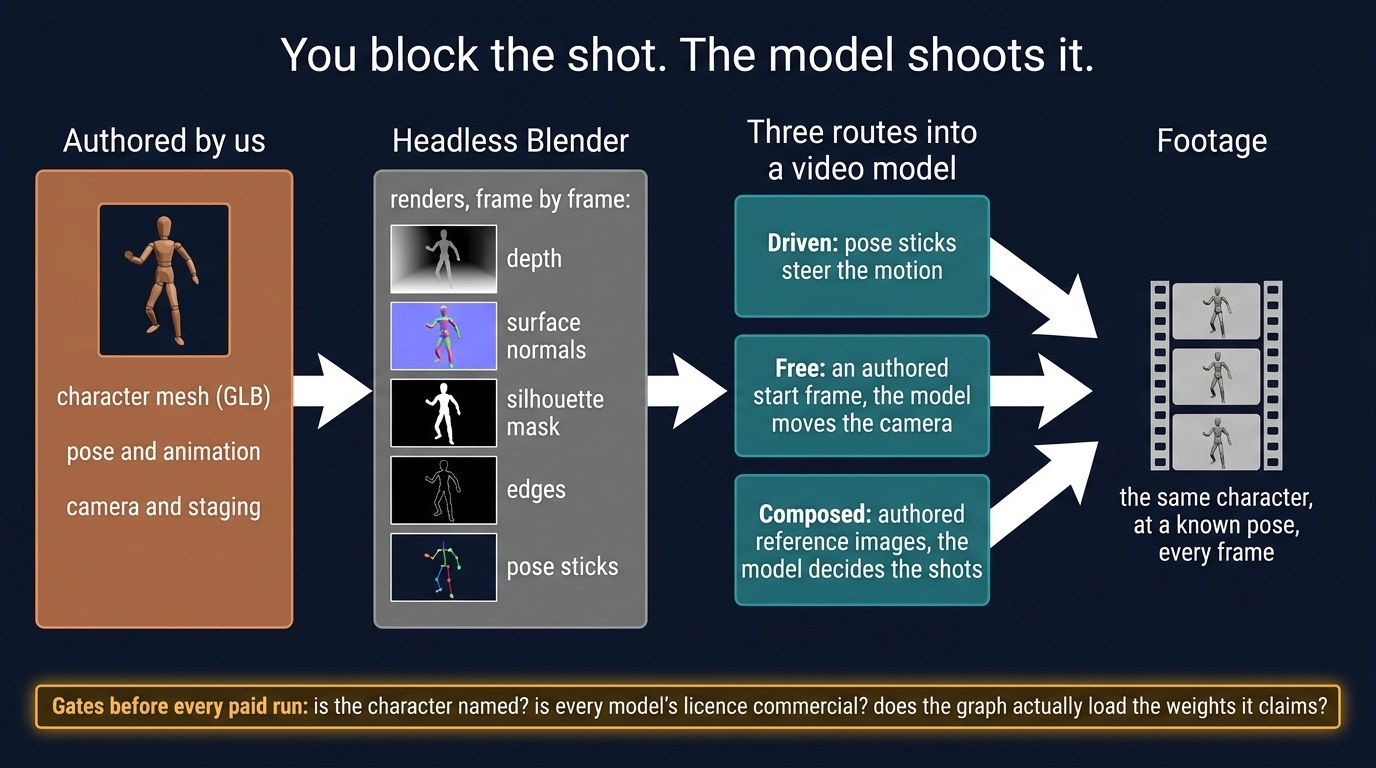
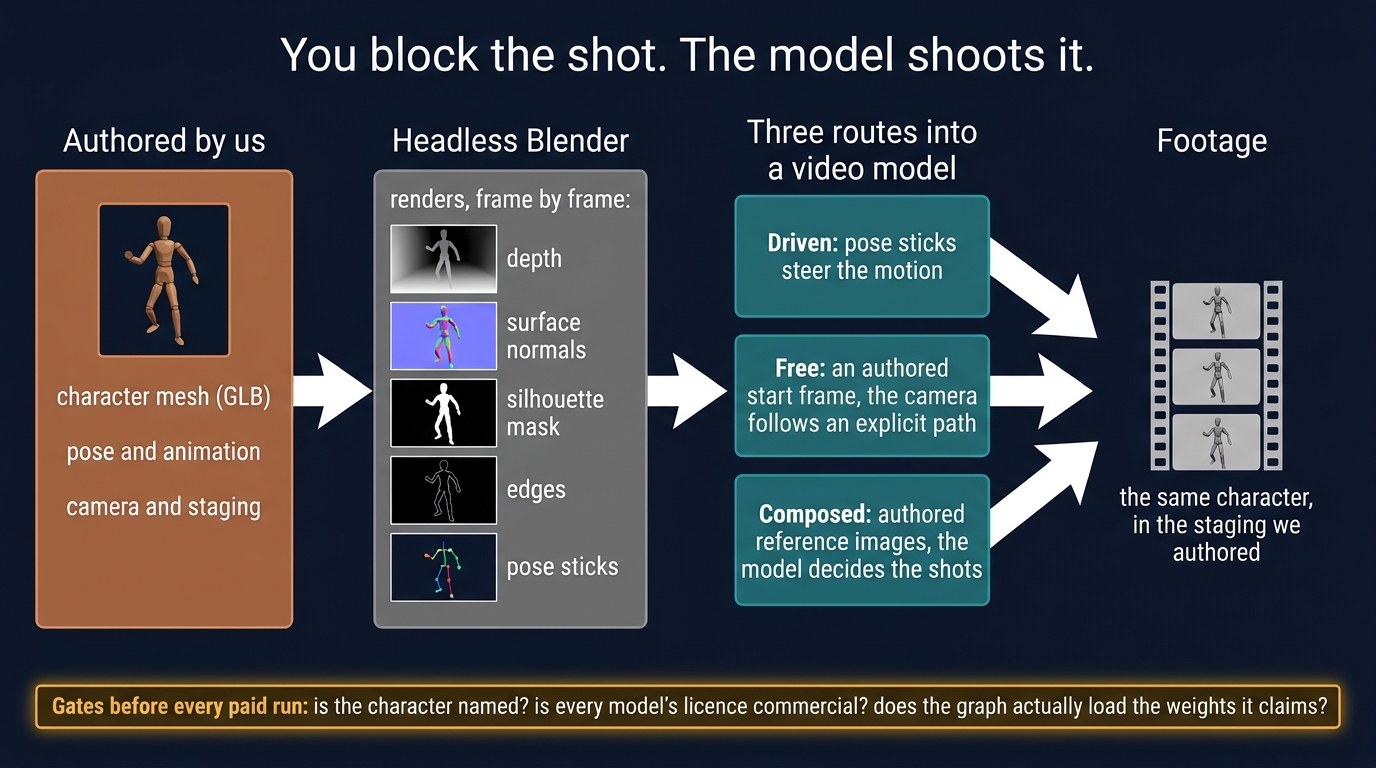
issue 43: Carbon read amends 6, 7, 10 in the diagrams (free route wording; footage caption; fix in review; TPU figures marked reported)

Changed region(s): [[0.5312, 0.5, 0.7188, 0.5625], [0.8125, 0.6562, 0.9375, 0.75]]

diff --git a/site/src/content/docs/newsletter/issue-43.md b/site/src/content/docs/newsletter/issue-43.md
@@ -305,7 +305,7 @@ hour) and closed cleanly.
 **What went wrong.** As the run handed over from training to making its final sample images, the launcher's own
 **stall guard** stopped it.
 
-![Diagram titled "The guard was watching a phase that had already ended". A timeline of one training run on a rented GPU: Setup (setup log grows), then Training: step 1 to 500 (setup log stops growing, as expected), with flags at save: step 250 and save: step 500, then Final sample images, marked with a stop sign and "stopped here", then a faded Close and fetch. Above it, a status log with two blocks reading "phase: run" and a torn third block, "half-written block: no phase". Arrows lead from the torn block to "Guard reads a missing phase as 'setup'", then to "Setup log unchanged for 14.5 min (limit 10 min) → stop", then down to the stop sign. At the bottom: "The fix: skip half-written blocks, as the memory guard already did."](/rnd/charts/issue-43-stall-guard.jpg)
+![Diagram titled "The guard was watching a phase that had already ended". A timeline of one training run on a rented GPU: Setup (setup log grows), then Training: step 1 to 500 (setup log stops growing, as expected), with flags at save: step 250 and save: step 500, then Final sample images, marked with a stop sign and "stopped here", then a faded Close and fetch. Above it, a status log with two blocks reading "phase: run" and a torn third block, "half-written block: no phase". Arrows lead from the torn block to "Guard reads a missing phase as 'setup'", then to "Setup log unchanged for 14.5 min (limit 10 min) → stop", then down to the stop sign. At the bottom: "The fix (in review): skip half-written blocks, as the memory guard already did."](/rnd/charts/issue-43-stall-guard.jpg)
 
 That guard watches the setup log during setup, and fires if the log stops growing for 10 minutes. But setup had ended
 long before: the run was training, and a training run isn't supposed to write to the setup log. The launcher reads the
@@ -332,7 +332,7 @@ what they're good for. We checked one thing ourselves, marked below; the rest is
 The short answer: a single TPU chip is a fast matrix engine that wants to be fed **many requests at once**, with shapes
 it has already compiled for. It is not a drop-in GPU.
 
-![Diagram titled "A single TPU chip wants many requests at once". Left panel, "One request at a time": a TPU chip reads the model weights from memory, with "memory: every weight read once per word", and one token comes out; caption: "Speed is set by memory bandwidth. Our RTX 5090 (1,792 GB/s) matches a v6e-1 (1,638 GB/s)." Right panel, "Many requests at once": the same chip and memory, with many request lanes going in and many token streams coming out; caption: "Each weight read now serves many answers at once. This is where a TPU chip earns its keep." An amber strip along the bottom: "First, it compiles for every input shape it sees: 1.5 to 34 minutes reported. Change the shape and it compiles again."](/rnd/charts/issue-43-tpu.jpg)
+![Diagram titled "A single TPU chip wants many requests at once". Left panel, "One request at a time": a TPU chip reads the model weights from memory, with "memory: every weight read once per word", and one token comes out; caption: "Reported: speed is set by memory bandwidth. Our RTX 5090 (1,792 GB/s) matches a v6e-1 (1,638 GB/s)." Right panel, "Many requests at once": the same chip and memory, with many request lanes going in and many token streams coming out; caption: "Each weight read now serves many answers at once. This is where a TPU chip earns its keep." An amber strip along the bottom: "First, it compiles for every input shape it sees: 1.5 to 34 minutes reported. Change the shape and it compiles again." A small footer: "Figures as reported by our Deep Research report."](/rnd/charts/issue-43-tpu.jpg)
 
 - **Where it would help us.** Running a translation model like TranslateGemma on a batch of text, while our own card is
   busy training. Today our README translations run on the RTX 5090 and wait whenever a training chunk holds it. Also
